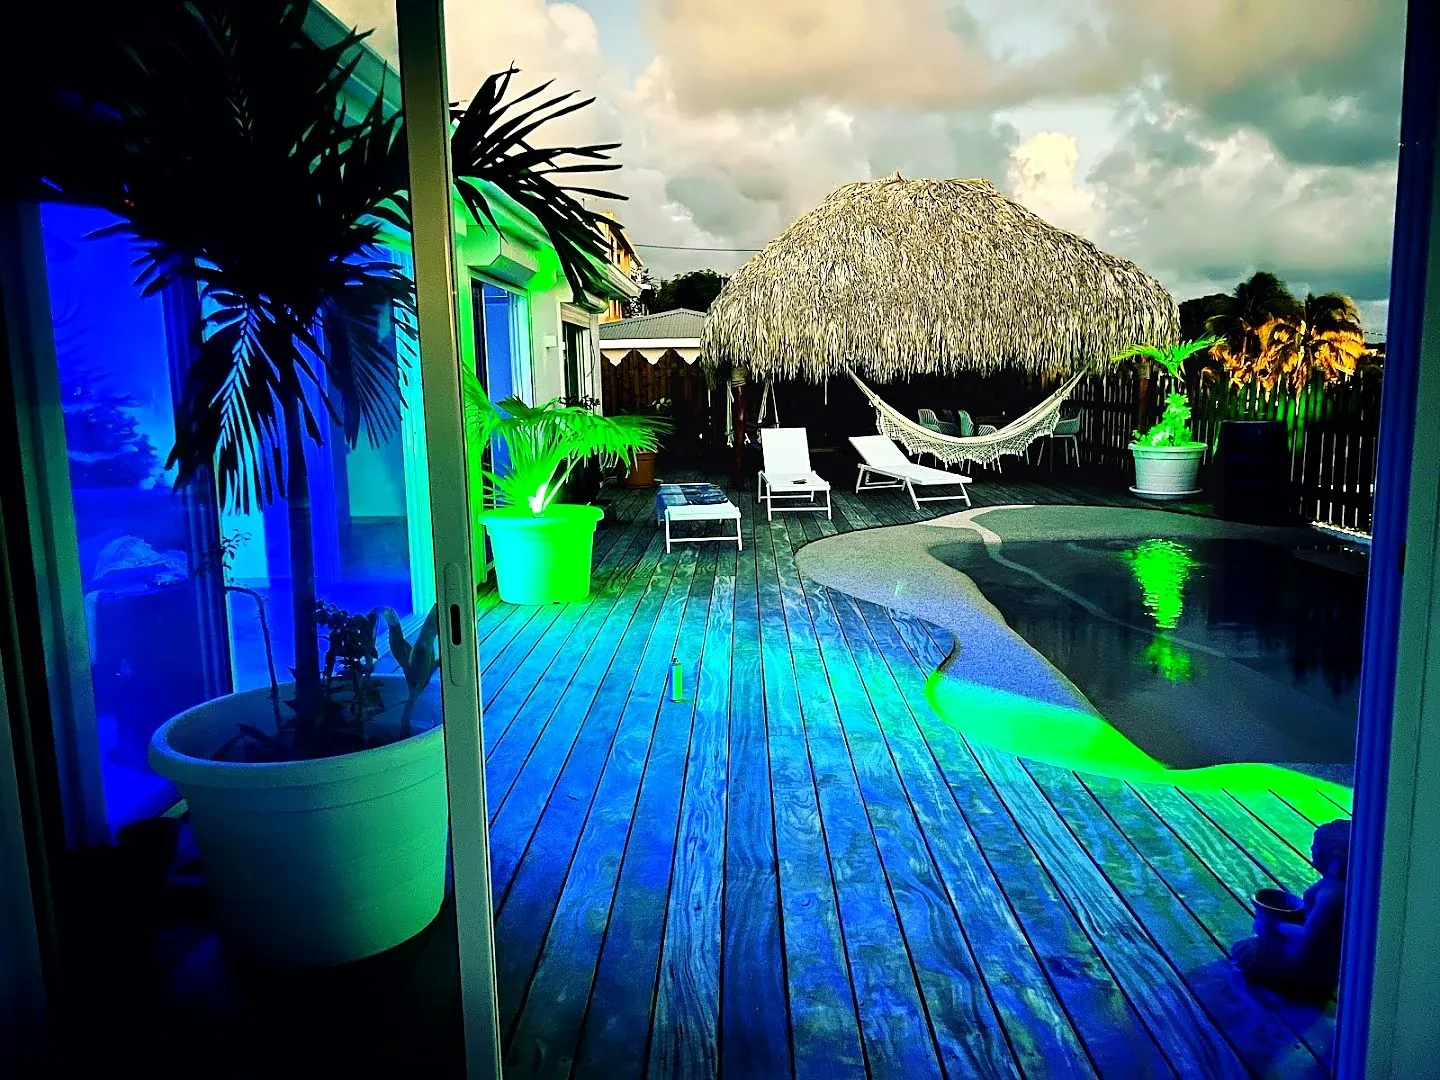
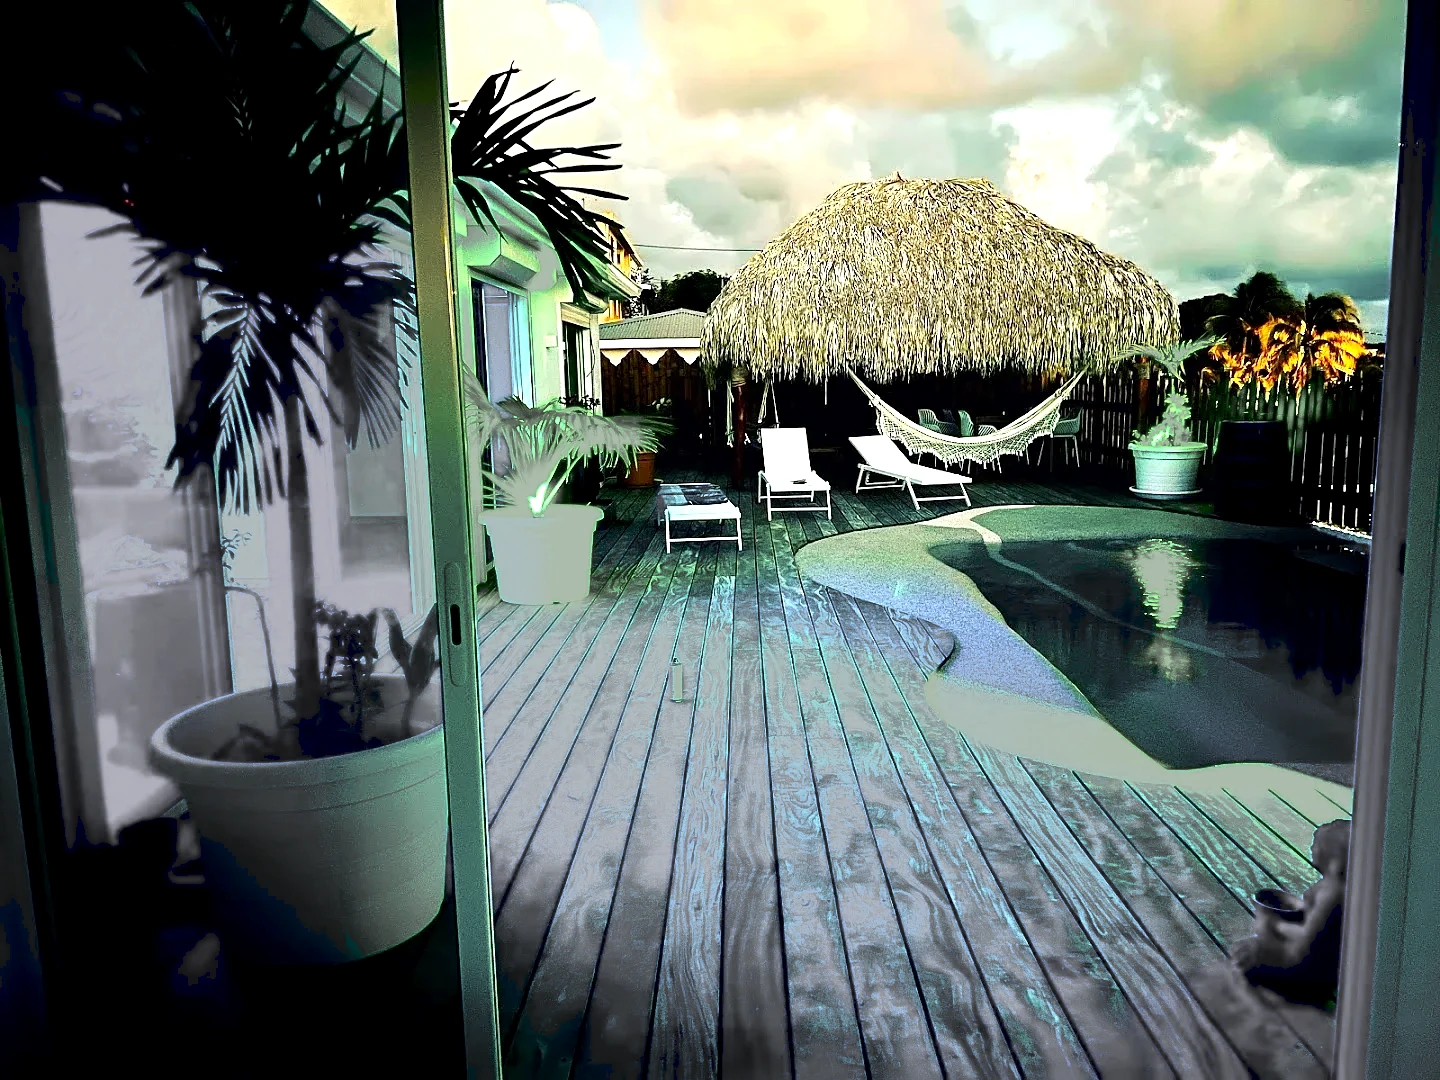
fix(reservations): verrou Source=Manuel contre écrasement Beds24 (Nogent)
Le canal "Louer Premium" (nom de canal Beds24, pas un vrai voyageur) passait
l'ancien allowlist PLACEHOLDER_VOY et écrasait nom/montant saisis à la main
(résa Ines Dali/490€ écrasée en "Louer Premium"/0€). Verrou basé sur la
colonne Source plutôt que sur un allowlist fermé. Déployé Apps Script v92,
vérifié par simulation d'un sync hostile.

diff --git a/appscript/SCRIPT_SHEETS.js b/appscript/SCRIPT_SHEETS.js
@@ -1231,12 +1231,29 @@ function importAllReservations_(input) {
         var s = String(inc == null ? "" : inc).trim();
         return (!s || PLACEHOLDER_VOY[s.toLowerCase()]) ? old : inc;
       }
-      row[2]  = keepText_(row[2],  cur[2]);                              // Voyageur
-      row[7]  = (Number(row[7]) > 0) ? row[7] : cur[7];                  // Montant
-      row[9]  = (Number(row[9]) > 1) ? row[9] : (Number(cur[9]) > 0 ? cur[9] : row[9]); // Voyageurs
-      row[10] = keepText_(row[10], cur[10]);                            // Notes
-      row[13] = keepText_(row[13], cur[13]);                            // Téléphone
-      row[14] = keepText_(row[14], cur[14]);                            // Email
+      // Verrou "Manuel" : une ligne saisie à la main (addReservation_, Source="Manuel")
+      // ne doit JAMAIS être écrasée par un sync automatique, même si le canal renvoie
+      // un nom non vide (ex. "Louer Premium" = nom du canal Beds24, pas un placeholder
+      // connu de PLACEHOLDER_VOY, mais pas un vrai nom de voyageur non plus — trouvé
+      // 2026-07-11, résa Nogent Ines Dali écrasée par le sync Beds24 malgré la garde
+      // ci-dessus). Les dates/nuits/statut restent fiables et continuent de se
+      // synchroniser normalement (seul le nom/montant/contact sont verrouillés).
+      if (String(cur[11] || "").trim() === "Manuel") {
+        row[2]  = cur[2];   // Voyageur
+        row[7]  = cur[7];   // Montant
+        row[9]  = cur[9];   // Voyageurs
+        row[10] = cur[10];  // Notes
+        row[11] = cur[11];  // Source (reste "Manuel")
+        row[13] = cur[13];  // Téléphone
+        row[14] = cur[14];  // Email
+      } else {
+        row[2]  = keepText_(row[2],  cur[2]);                              // Voyageur
+        row[7]  = (Number(row[7]) > 0) ? row[7] : cur[7];                  // Montant
+        row[9]  = (Number(row[9]) > 1) ? row[9] : (Number(cur[9]) > 0 ? cur[9] : row[9]); // Voyageurs
+        row[10] = keepText_(row[10], cur[10]);                            // Notes
+        row[13] = keepText_(row[13], cur[13]);                            // Téléphone
+        row[14] = keepText_(row[14], cur[14]);                            // Email
+      }
       sheet.getRange(existingRow, 1, 1, NCOLS).setValues([row]);
       existingIds[id] = existingRow;
       if (contentK && contentK !== "||") existingByContent[contentK] = existingRow;

diff --git a/.memory/BLOCKERS.md b/.memory/BLOCKERS.md
@@ -4,6 +4,16 @@
 > 🔴 bloquant fort · 🟡 contourné / dette latente · ✅ levé (gardé un temps pour traçabilité).
 > _Consolidé le 2026-06-20 : ✅ levés dispersés regroupés dans `## Archivé`._
 
+## ✅ Résolu le 2026-07-11 — Bloc Beds24 Nogent `beds24-87233283` obsolète, supprimé
+> Résa Nogent Ines Dali (06→15 juillet 2026, 490€) corrigée + écrasement Beds24 (nom/montant)
+> fixé durablement dans `appscript/SCRIPT_SHEETS.js` (verrou colonne Source "Manuel", déployé
+> v92, vérifié par simulation d'un sync hostile). Le bloc Sheet séparé `beds24-87233283`
+> (04/07→25/07, 21 nuits, "Bloqué") s'est avéré **obsolète** : requête live Beds24 confirme
+> qu'il n'existe plus côté Beds24 (seul `beds24-89292637`, 06→15/07, exactement le séjour réel,
+> est actif) — probablement resserré/recréé côté Beds24 le 10/07 sans que le Sheet suive.
+> Supprimé sur confirmation de Vincent après vérification live, aucun risque de double-booking
+> (le vrai bloc protecteur `89292637` reste intact).
+
 ## En cours → ✅ terminé le 2026-07-11 (suite) — Backlog agents entièrement trié (36→0), 4 propositions substantielles en attente de Vincent
 > Commit `426aac7` (event GA4 booking_cancelled). Vincent : "traiter et trier tout le backlog des agents pour qu'il arrive à 0" — 36 items, tous re-triés (aucun laissé en `backlog` brut) : ~14 marqués `fait` (dont 2 features codées : cpw-110 tracking annulations GA4, log-034/media-038 déjà faits avant), ~7 `bloqué` (externe : Meta hack, ou déjà substantiellement couvert), ~15 `a-planifier` (nécessitent un shooting réel/vraies photos clients/décision budget-pricing de Vincent — jamais fabriqués).
 - 🟡 **4 propositions substantielles livrées par des agents spécialisés, en attente de décision Vincent** (rien appliqué automatiquement) :